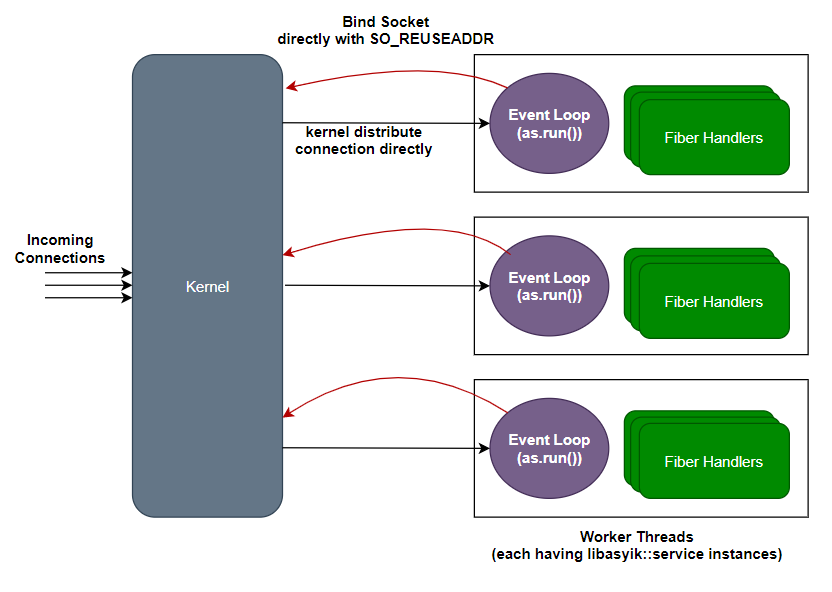
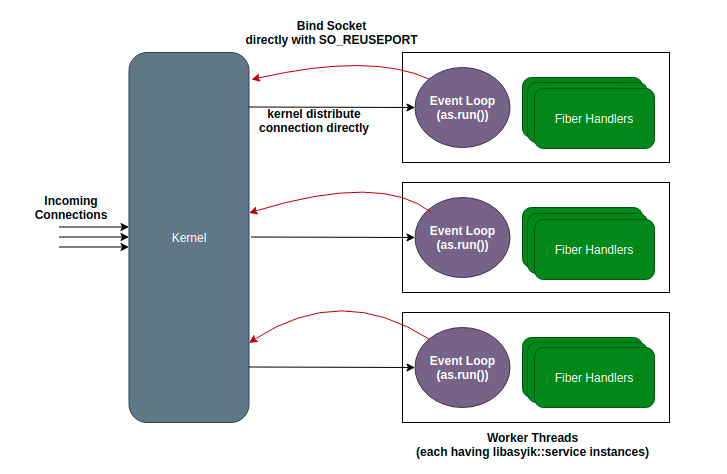
updated docs

Changed region(s): [[0.0, 0.0295, 0.9684, 0.9747], [0.2118, 0.4726, 0.3026, 0.5316]]

diff --git a/docs/designs.md b/docs/designs.md
@@ -1,12 +1,113 @@
 # System Design
+Libasyik::service use explicitly single thread and **share-nothing** philosophy by strictly assigning each `as->run()` to a thread. Any fiber that being spawned by `as->execute()` will be executed in that thread in 1:N concurrency fashion.
+
+Supposed a basic Libasyik HTTP server:
+```c++
+void main()
+{
+    auto as = asyik::make_service();
+    auto server = asyik::make_http_server(as, "127.0.0.1", 4004);
+
+    // serve http request(can coexists with websocker endpoints)
+    server->on_http_request("/hello", "GET", [](auto req, auto args)
+    {
+      req->response.body = "Hello world!";
+      req->response.result(200);
+    });
+    
+    // serve websocket
+    server->on_websocket("/websocket", [](auto ws, auto args) 
+    { 
+      // executed as lightweight process/fiber
+      while(1)
+      {
+        auto s = ws->get_string(); 
+        ws->send_string(s); //echo
+      }
+
+      ws->close(asyik::websocket_close_code::normal, "closed normally");
+    });
+
+    as->run();
+}
+```
+
+In the example above, all the incoming requests will be handled as fiber in the main thread. No multithreading is necessary.
+
+Now, if we expand the example, somehow in the websocket handling we need to call external blocking function that cannot yield/give up execution, the correct way to wrap the calling is:
+```c++
+// serve websocket
+    server->on_websocket("/websocket", [](auto ws, auto args) 
+    { 
+      // executed as lightweight process/fiber
+      while(1)
+      {
+        auto s = ws->get_string(); 
+        auto result = asyik::async([]()
+            {
+                uint8_t buffer[SIZE];
+                fread_some(f, buffer, sizeof(buffer));
+                return std::to_string(buffer);
+            });
+        ws->send_string(result.get);
+      }
+
+      ws->close(asyik::websocket_close_code::normal, "closed normally");
+    });
+```
+
+The blocking function will be isolated to an available thread pool, while the current fiber in the main thread will give execution to other ready fibers. So the main function/server is still single thread, but only very specific execution is dispatched to one of the thread pool:
+
 <img src="design.png" width="720" >
 
 # Multithreading Approach
-<img src="free_fibers.png" width="480" >
+As mentioned, Libasyik's service is stricly bounded to the single server and use shared-nothing in handling requests in multi-thread fashion. Some reasoning:
+ - Multi-threading is not an immediate need in the most basic, if not majority, use cases. Especially if I/O is more concerned
+ - By assuming single thread for particular service, we are not obliged to use multithreading synchronizations. We can still achieve multi-tasking and concurrency by spawning as many fibers as we like that run under single thread.
+ - On top of convenience on avoiding synchronizations, single thread arrangement also reduce performance overhead on waiting mutex, context-switching, and ultimately cache invalidation or memory barrier/flushing operations. No memory barrier ensure that each core CPU executing the fibers can enjoy most of performance benefit of L1-L3 caching
+ - Now if you must use multi-threading to handle incoming requests, using multiple `asyik::service` in different threads, and ensure that all process **uses as few shared variables as possible** will achieve both performance and convenience benefit like single thread program, as per **share-nothing architecture**
 
 <img src="bounded_fibers.png" width="640" >
 
+If in a multi-threading environment, interaction between thread is unavaoidable, we can use [boost::fibers synchronization API](https://www.boost.org/doc/libs/1_83_0/libs/fiber/doc/html/fiber/synchronization.html) to help, not only protect shared variable from racing condition, but also utilize [fiber::channel](https://www.boost.org/doc/libs/1_83_0/libs/fiber/doc/html/fiber/synchronization/channels.html) to communicate between fibers.
+
+<img src="free_fibers.png" width="480" >
+
+
 # Multithreading on Networking Approach
+One common pattern to distribute incoming connection to multiple thread handlers is to use single thread as acceptor and then dispatch to one of the handler threads:
 <img src="single_acceptor.png" width="640" >
 
+This approach has a drawbacks that the acceptor can be the hotspot and in some edge case(for extreme number of requests) can be a bottleneck. Transfering between acceptor thread to the handler thread will also add context-switching overhead.
+
+### Libasyik's approach
+Libasyik use **share nothing** philosophy, and this also including how it handles multithreading server. Instead of assigning acceptor thread as the front line, we turn kernel to act as load balancer via `SO_REUSEPORT`` feature in the linux kernel:
+
 <img src="multiple_acceptors.png" width="540" >
+
+With this architecture, each thread handler can bind directly to the same `address:port` and process the requests in independent and isolated fashion:
+```c++
+int main()
+{
+  for (int i = 0; i < 8; i++) {
+    // each thread will have isolated HTTP server
+    std::thread t([&stopped]() {
+      auto as = asyik::make_service();
+
+      // create http server with reusable port=true
+      auto server = asyik::make_http_server(as, "127.0.0.1", 4004, true);
+      server->on_http_request("/flag", "GET", [&flag_http](auto req, auto args) {
+                                req->response.body = "ok";
+                                req->response.result(200);
+                              });
+
+      as->run();
+
+    }
+    );
+    t.detach();
+  }
+
+  ...
+}
+```

diff --git a/docs/why.md b/docs/why.md
@@ -3,12 +3,11 @@ Common programming model for implementing HTTP-based service or network programm
 <img src="typical_server_designs.png" width="800" >
 
 ### Synchronous programming model using thread pool
-One aspect of synchronous programming is the easiness to reasond and code of program flow. No callback hell, no need to maintain state machine, easy to handle exception or error and other conveniences.
+One aspect of synchronous programming is the easiness to reason and code the program flow. No callback hell, no need to maintain state machine, easy to handle exception/error and other conveniences.
 
-Synchronous network programming using a thread pool is an approach that blends synchronous interface with the efficiency and scalability of a thread pool. It's widely used in scenarios where applications must handle multiple network connections concurrently, such as servers. However, it's crucial to understand that while this approach offers advantages, it comes with significant drawbacks.
+Synchronous network programming using a thread pool is an approach that blends synchronous interface with the efficiency and scalability of a thread pool. It's widely used in scenarios where applications must handle multiple network connections concurrently, such as servers.
 
-How it works:
-
+**How it works:**
 1. Thread Pool Setup: A fixed number of threads are allocated to create a thread pool. This is designed to efficiently manage incoming network requests without overloading the system.
 
 2. Blocking I/O Operations: Network operations, like reading from or writing to sockets, are inherently blocking. They pause the program's execution until the operation is finished. In synchronous network programming, these operations are carried out in a blocking manner.
@@ -20,8 +19,7 @@ How it works:
 5. Efficiency and Scalability: The thread pool minimizes the overhead of creating and destroying threads for every new network request, improving resource utilization and scalability.
 
 
-Drawbacks:
-
+**Drawbacks:**
 1. Blocking Delays: The most significant drawback is blocking. Threads waiting for I/O operations to complete can lead to significant delays in the application's responsiveness, especially when handling multiple clients. Long-running or stalled I/O operations can impact the entire system's performance.
 
 2. Resource Consumption: Maintaining a thread pool with a substantial number of threads can consume a significant amount of system resources, and managing those resources efficiently can be complex.
